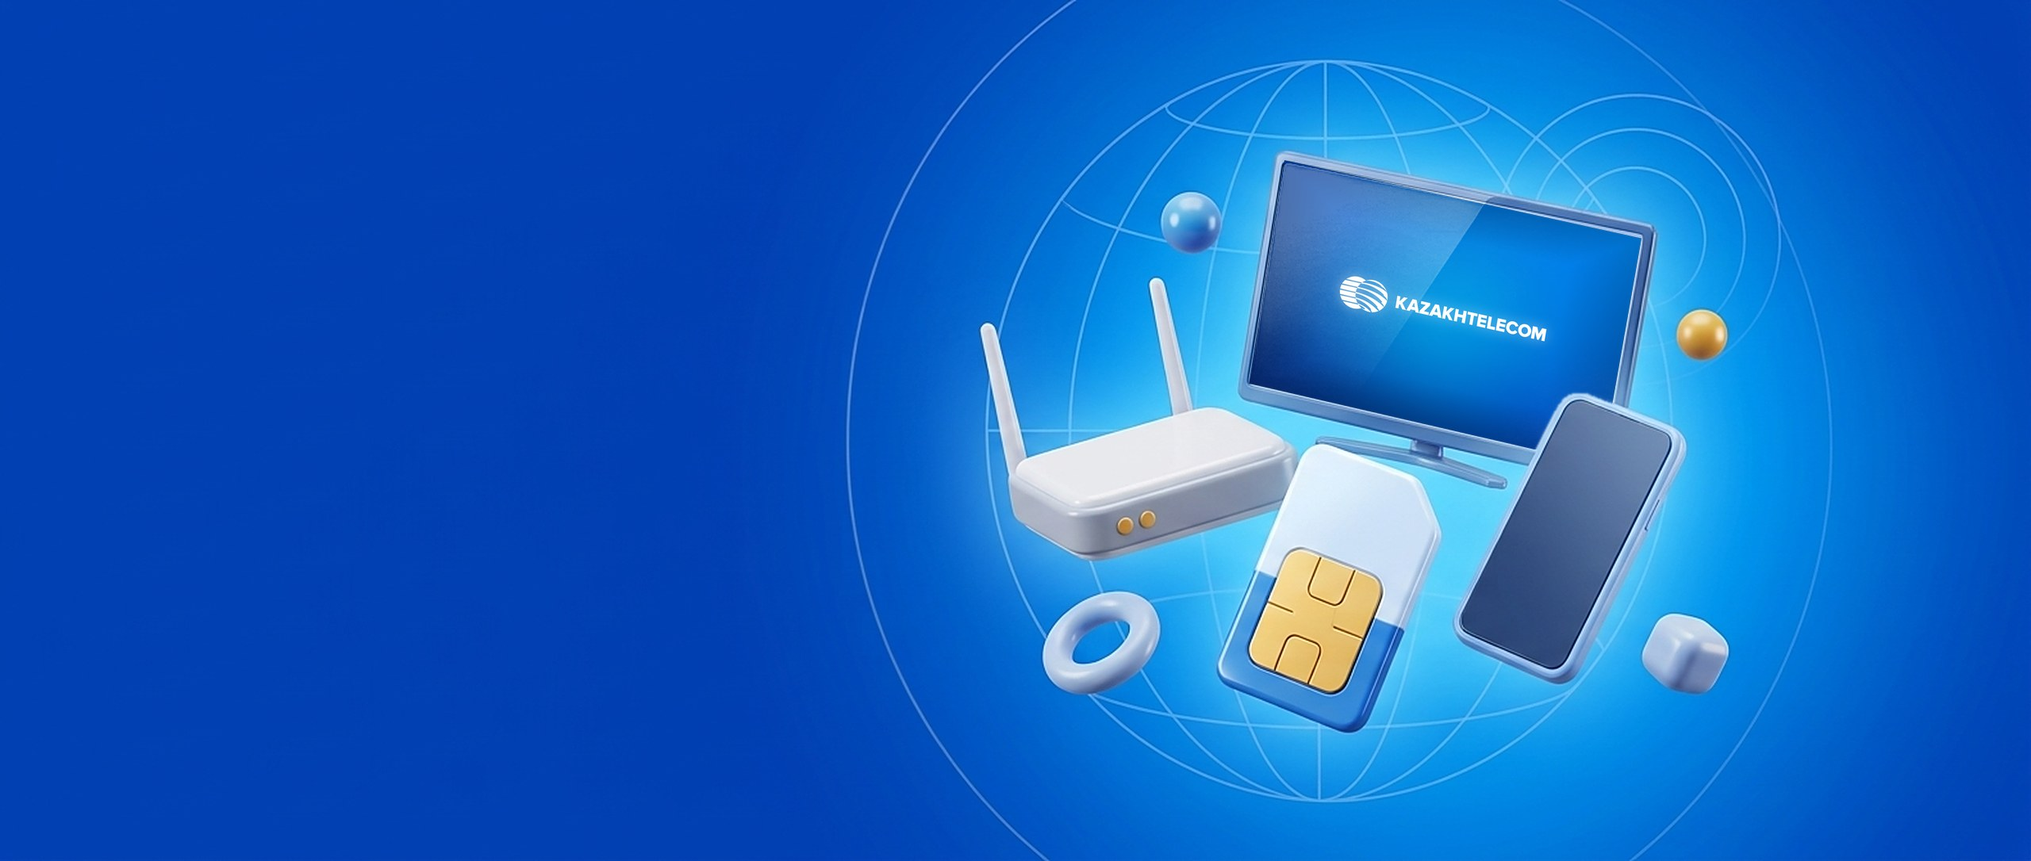
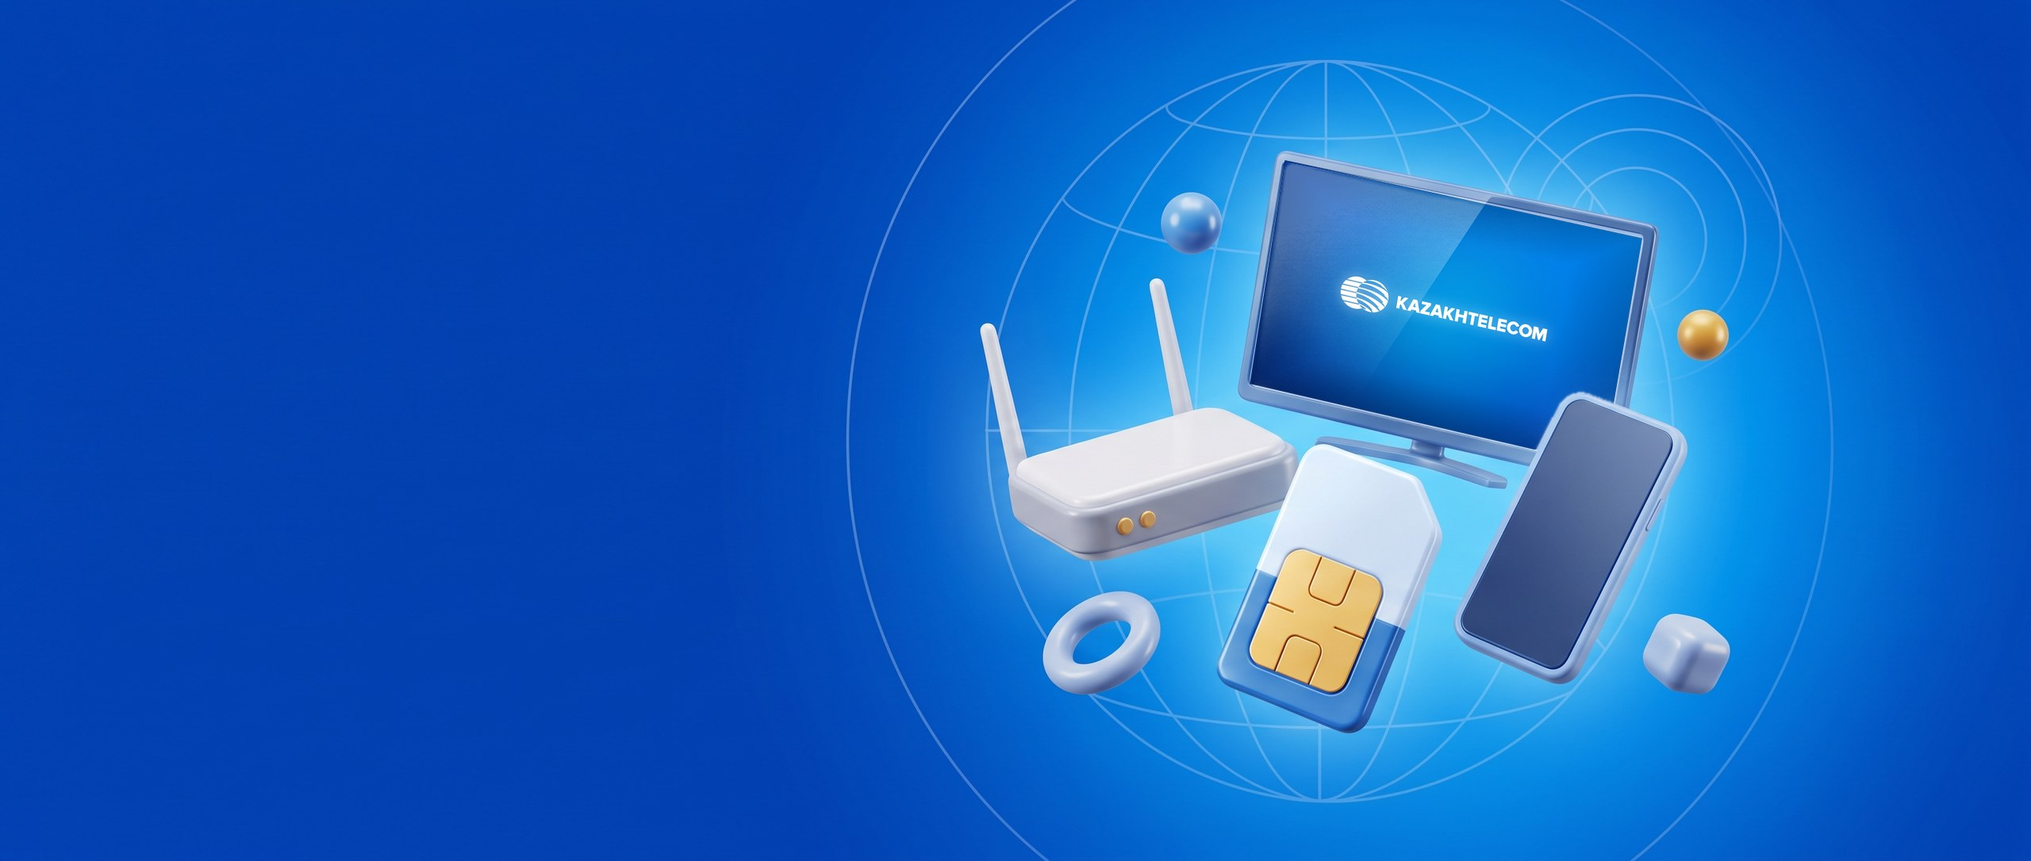
Баннер: картинка из исходника 3168px, перерисованного в Gemini
Тот же кадр, что и раньше, вдвое крупнее: композиция совпала до пикселя
(сдвиг 0, расхождение только по контурам), поэтому координаты экрана и
вуаль не менялись. public/hero.jpg по-прежнему 2560px, 180 КБ.

scripts/hero-image.py теперь работает с исходником любого размера:
экран ТВ и телефон ищутся в кадре 1584px (GEO_WIDTH), а резкость
подкручивается, только если исходник мельче 2560px. На старом
исходнике скрипт выдаёт байт-в-байт прежний файл.

Контраст текста перемерен на 9 экранах в обоих языках: везде не ниже
прежнего, заголовок 4.91–7.93 (было 4.63–4.81), подзаголовок
5.10–8.14 (было 4.74–8.30). Таблица и промпт — в docs/hero-image.md.

diff --git a/scripts/hero-image.py b/scripts/hero-image.py
@@ -6,15 +6,16 @@
     python scripts/hero-image.py
 
 Вход (папка assets-src вне git, файлы — у заказчика):
-    assets-src/hero-raw.jpg            картинка из Nano Banana 2
+    assets-src/hero-raw.jpg            картинка: 3168px, перерисовка в Gemini
+                                       того же кадра (октябрь 2026)
+    assets-src/hero-raw-1584.jpg       прежний исходник из Nano Banana 2
     assets-src/logo_latin/white.png    белый официальный логотип КТ
 
 Что делает:
 
-1. Увеличивает картинку до 2560px (Lanczos). Исходник — 1584px, и браузер,
-   растягивая его сам, давал «мыло». Резкость добавляется только справа, на
-   предметах: под текстом она усиливала линии глобуса, и подзаголовок падал
-   ниже нормы контраста.
+1. Приводит картинку к 2560px (Lanczos). Прежний исходник был 1584px, его
+   приходилось увеличивать с подкруткой резкости справа, на предметах; новый
+   3168px уменьшается и в резкости не нуждается.
 
 2. «Включает» экран телевизора в фирменном стиле: экран светится градиентом
    из синих гайда, в центре — белый официальный логотип с мягким свечением,
@@ -48,10 +49,15 @@ LOGO_SRC = "assets-src/logo_latin/white.png"
 OUT_IMG = "public/hero.jpg"
 CHECK = "assets-src/hero-screen-check.png"
 
-SEED = (1130, 233)          # точка внутри экрана на hero-raw.jpg 1584x672
+# Координаты ниже — в пикселях кадра шириной GEO_WIDTH. Исходник другого
+# размера (с октября 2026 — 3168px, тот же кадр, перерисованный в Gemini)
+# для поиска экрана и телефона уменьшается до этой ширины: так константы
+# и отступы в screen_quad остаются верными при любом разрешении.
+GEO_WIDTH = 1584
+SEED = (1130, 233)          # точка внутри экрана
 OCCLUDER = (1185, 295)      # правее и ниже — телефон (для подгонки краёв экрана)
 PHONE_SEED = (1252, 381)    # точка на тёмном экране телефона
-PHONE_FRAME = 6             # толщина рамки телефона, px исходника
+PHONE_FRAME = 6             # толщина рамки телефона, px
 
 TARGET_WIDTH = 2560
 BRAND_SCREEN = True         # False — экран остаётся пустым, как в исходнике
@@ -264,21 +270,27 @@ def main():
     raw = Image.open(SRC).convert("RGB")
     w, h = raw.size
     th = round(TARGET_WIDTH * h / w)
-    k = TARGET_WIDTH / w
 
     up = raw.resize((TARGET_WIDTH, th), Image.LANCZOS)
-    sharp = up.filter(ImageFilter.UnsharpMask(radius=1.6, percent=70, threshold=2))
-    # Резкость — только справа, на предметах (44% -> 52% ширины плавно)
-    ramp = Image.linear_gradient("L").rotate(90, expand=True)  # 0 слева -> 255 справа
-    assert ramp.getpixel((0, 128)) < ramp.getpixel((255, 128)), "маска перевёрнута"
-    lo, hi = int(TARGET_WIDTH * 0.44), int(TARGET_WIDTH * 0.52)
-    smask = Image.new("L", (TARGET_WIDTH, th), 0)
-    smask.paste(255, (hi, 0, TARGET_WIDTH, th))
-    smask.paste(ramp.resize((hi - lo, th)), (lo, 0))
-    up = Image.composite(sharp, up, smask)
+    if w < TARGET_WIDTH:
+        # Исходник мельче цели — увеличенный выходит мягким, добавляем
+        # резкость. Только справа, на предметах (44% -> 52% ширины плавно):
+        # под текстом она усиливала линии глобуса, и подзаголовок падал
+        # ниже нормы контраста. Исходник крупнее цели уменьшается и резок
+        # сам — подкрутка дала бы лишь ореолы по краям.
+        sharp = up.filter(ImageFilter.UnsharpMask(radius=1.6, percent=70, threshold=2))
+        ramp = Image.linear_gradient("L").rotate(90, expand=True)  # 0 слева -> 255 справа
+        assert ramp.getpixel((0, 128)) < ramp.getpixel((255, 128)), "маска перевёрнута"
+        lo, hi = int(TARGET_WIDTH * 0.44), int(TARGET_WIDTH * 0.52)
+        smask = Image.new("L", (TARGET_WIDTH, th), 0)
+        smask.paste(255, (hi, 0, TARGET_WIDTH, th))
+        smask.paste(ramp.resize((hi - lo, th)), (lo, 0))
+        up = Image.composite(sharp, up, smask)
 
     if BRAND_SCREEN:
-        up, quad = brand_screen(up, raw, k)
+        # Экран и телефон ищем в кадре шириной GEO_WIDTH — см. константы
+        geo = raw if w == GEO_WIDTH else raw.resize((GEO_WIDTH, round(GEO_WIDTH * h / w)), Image.LANCZOS)
+        up, quad = brand_screen(up, geo, TARGET_WIDTH / GEO_WIDTH)
         print("углы экрана:", np.round(quad, 1).tolist())
 
     up.save(OUT_IMG, quality=88, optimize=True, progressive=True)

diff --git a/docs/hero-image.md b/docs/hero-image.md
@@ -8,6 +8,11 @@
 
 1. **Фон с предметами** — сгенерирован в Nano Banana 2 по промпту ниже,
    затем отредактирован там же: затемнена левая часть под текстом.
+   В октябре 2026 тот же кадр перерисован в Gemini вдвое крупнее —
+   3168×1344, промпт «Перерисовка в высоком разрешении» ниже. Композиция
+   совпала с прежней до пикселя (сдвиг 0, среднее расхождение 2.4 из 255,
+   различия только по контурам предметов), поэтому координаты в скрипте
+   и вуаль менять не пришлось.
 
 2. **Экран телевизора «включён»** — его рисует `scripts/hero-image.py`:
    градиент из синих гайда (`#052A7E → #0044BC → #008EFF`), свечение
@@ -30,14 +35,17 @@
    нейросети искажают чужие знаки. Рисуется в увеличенной до 2560px
    картинке — на экранах 1536–1920px почти один к одному, буквы не плывут.
 
-3. **Фон заранее увеличен** с 1584 до 2560px (Lanczos) — браузер растягивает
-   мягче. Резкость добавлена **только справа**, на предметах: слева, под
+3. **Фон приводится к 2560px** (Lanczos). Исходник 3168px уменьшается и в
+   подкрутке резкости не нуждается. Прежний, 1584px, увеличивался, и
+   резкость ему добавлялась **только справа**, на предметах: слева, под
    текстом, она усиливала линии глобуса, и подзаголовок падал с 5.01 до
-   4.29 при норме 4.5. Качество JPEG 88 (прежнее 84 сжимало 385 КБ
-   исходника до 64 КБ и само давало «мыло»).
+   4.29 при норме 4.5. Скрипт выбирает путь сам по ширине исходника.
+   Качество JPEG 88 (прежнее 84 сжимало 385 КБ исходника до 64 КБ и само
+   давало «мыло»).
 
-Исходники лежат в `assets-src/` (вне git): `hero-raw.jpg` — картинка,
-`logo_latin/` — логотипы заказчика в трёх цветах. В сборку идут
+Исходники лежат в `assets-src/` (вне git): `hero-raw.jpg` — картинка 3168px
+(она же `hero-raw (2).jpg`, как скачана из Gemini), `hero-raw-1584.jpg` —
+прежняя из Nano Banana 2, `logo_latin/` — логотипы заказчика в трёх цветах. В сборку идут
 `public/hero.jpg` (фон) и `public/kt-logo-white.png` (логотип над
 заголовком).
 
@@ -84,9 +92,8 @@ Output at the highest available resolution, at least 2560 px wide.
 
 - **Группа предметов шире заказанного** — 48–85% ширины вместо 52–78%.
   Из-за этого на экранах 4:3 и 5:4 картинка отключена (см. ниже).
-- **Разрешение 1584×672** вместо 2560 и больше. На 1920×1080 картинка
-  растянута в 1,6 раза; для мягкого 3D-рендера это терпимо, но более
-  крупный оригинал был бы лучше.
+- **Разрешение 1584×672** вместо 2560 и больше. Закрыто в октябре 2026
+  перерисовкой в Gemini: 3168×1344.
 
 ## Как картинка ложится на разные экраны
 
@@ -116,26 +123,73 @@ Output at the highest available resolution, at least 2560 px wide.
 Подзаголовок чисто белый: приглушённый на 82% над этим свечением давал
 3.56–4.28 даже под плотной вуалью.
 
-Замерено по пикселям: фон баннера собран в canvas точно как в CSS, и в
-прямоугольнике каждой строки текста найдена худшая точка.
+Замерено по пикселям: фон баннера собран в canvas точно как в CSS —
+градиент `.hero`, картинка с `cover` по центру, круги `.hero-art` там, где
+они видны, и вуаль `.hero-scrim`, — и в прямоугольнике каждой строки текста
+найдена худшая точка (шаг 2px). Картинку для замера грузить в обход кэша
+(`fetch('/hero.jpg', {cache: 'reload'})`): браузер долго держит прежнюю.
+
+Замер 14 октября 2026, картинка 3168px:
 
 | Экран | Подпись у логотипа | Заголовок (норма 3) | Подзаголовок | Факты |
 |---|---|---|---|---|
-| 1536×864 | 8.49 | 4.68 | 5.02 | 7.62 |
-| 1440×900 | 8.33 | 4.71 | 4.86 | 7.54 |
-| 1920×1080 | 8.15 | 4.69 | 4.83 | 7.40 |
-| 1366×768 | 8.49 | 4.75 | 4.90 | 7.80 |
-| 1280×800 | 8.49 | 4.66 | 4.86 | 7.68 |
-| 1360×625 | 8.44 | 4.81 | 8.30 | 7.61 |
-| 2560×1440 | 4.90 | 4.63 | 4.74 | 4.68 |
-| 1024×768 (градиент) | 5.58 | 5.17 | 5.95 | 6.45 |
-| 375×667 (градиент) | 4.80 | 4.76 | 5.45 | 5.67 |
+| 1536×864 | 8.44 | 4.98 | 5.27 | 8.01 |
+| 1440×900 | 8.44 | 5.02 | 5.33 | 8.01 |
+| 1920×1080 | 8.15 | 4.98 | 5.16 | 7.83 |
+| 1366×768 | 8.46 | 4.91 | 5.33 | 8.38 |
+| 1280×800 | 8.50 | 4.96 | 5.34 | 8.19 |
+| 1360×625 | 8.44 | 7.93 | 8.14 | 8.32 |
+| 2560×1440 | 5.21 | 5.08 | 5.10 | 5.35 |
+| 1024×768 (градиент) | 5.44 | 5.04 | 5.71 | 6.45 |
+| 375×667 (градиент) | 5.37 | 5.09 | 5.78 | 6.71 |
 
-Худшее значение из двух языков. Норма 4.5, для заголовка 3.0.
+Худшее значение из двух языков. Норма 4.5, для заголовка 3.0. С картинкой
+1584px заголовок давал 4.63–4.81, подзаголовок 4.74–4.90: рост — от того,
+что под текстом больше нет подкрученной резкости.
 
 **Если меняете картинку, ширину текста или вуаль — перемеряйте.** Прежний
 расчёт для новой картинки недействителен: с вуалью, подобранной под старую,
 подзаголовок на новой давал 3.56.
+
+## Перерисовка в высоком разрешении
+
+Приложить к запросу `hero-raw-1584.jpg` (пустой экран ТВ), в настройках
+Gemini выбрать 21:9 и максимальное разрешение.
+
+```text
+Upscale and remaster the attached image into an ultra-high-quality version.
+
+Keep EVERYTHING exactly as in the original: the same composition, the same
+objects in the same positions, sizes, angles and proportions, the same camera
+angle, the same colors and lighting. This is a faithful high-resolution
+re-render of the same scene, not a new image. Do not move, add, remove or
+redesign anything.
+
+Aspect ratio: 21:9, same framing as the original. Output at the maximum
+available resolution (4K, at least 3840 px wide).
+
+Improve only the quality: crisp clean edges, smooth glossy "3D plastic"
+surfaces, clean gradients without banding, noise or artifacts. The thin
+white wireframe globe lines stay faint, thin and even. The gold SIM chip
+and golden-yellow accents keep their color.
+
+Keep the left half an evenly toned deep royal blue (#0044BC), calm and dark,
+with no glow and no new details — white text will be placed there.
+
+The TV screen stays blank, glossy and light; the smartphone screen stays
+blank and dark.
+
+Do NOT add: any text, letters, numbers, logos, brand marks, watermarks,
+icons or interfaces on screens, people, hands, red color.
+```
+
+Пришло 3168×1344 — вдвое, а не 4K, но для 2560px с запасом.
+
+**Известная мелочь:** по краю рамки телефона, где он заходит на экран ТВ,
+видна тонкая неровная светлая кайма — край маски телефона. Она была и на
+картинке 1584px; маска строится в кадре 1584px (`GEO_WIDTH`) и при
+увеличении остаётся волнистой. Можно сгладить, строя маску телефона в
+полном разрешении исходника.
 
 ## Замена картинки
 

diff --git a/TODO.md b/TODO.md
@@ -274,13 +274,13 @@ Qbox. Не трогать.
 Не удалено, потому что на боевой странице панель не видна и вреда не
 приносит.
 
-### Картинка баннера в низком разрешении
+### Картинка баннера: на экранах 4:3 отключена
 
-Оригинал из Nano Banana — 1584×672, на 1920×1080 растянут в 1,6 раза. Для
-мягкого 3D-рендера терпимо, но при возможности стоит получить оригинал от
-2560px и прогнать `scripts/hero-image.py` заново. Там же: группа
-предметов вышла шире заказанной, из-за этого на экранах 4:3 картинка
-отключена.
+Разрешение закрыто: с октября 2026 исходник 3168px, перерисованный в
+Gemini (см. `docs/hero-image.md`). Осталось: группа предметов шире
+заказанной, из-за этого на экранах 4:3 и 5:4 картинка отключена. И
+мелочь — неровная светлая кайма по краю телефона там, где он заходит на
+экран ТВ (было и раньше).
 
 ### Иконки шагов весят по 100 КБ
 
